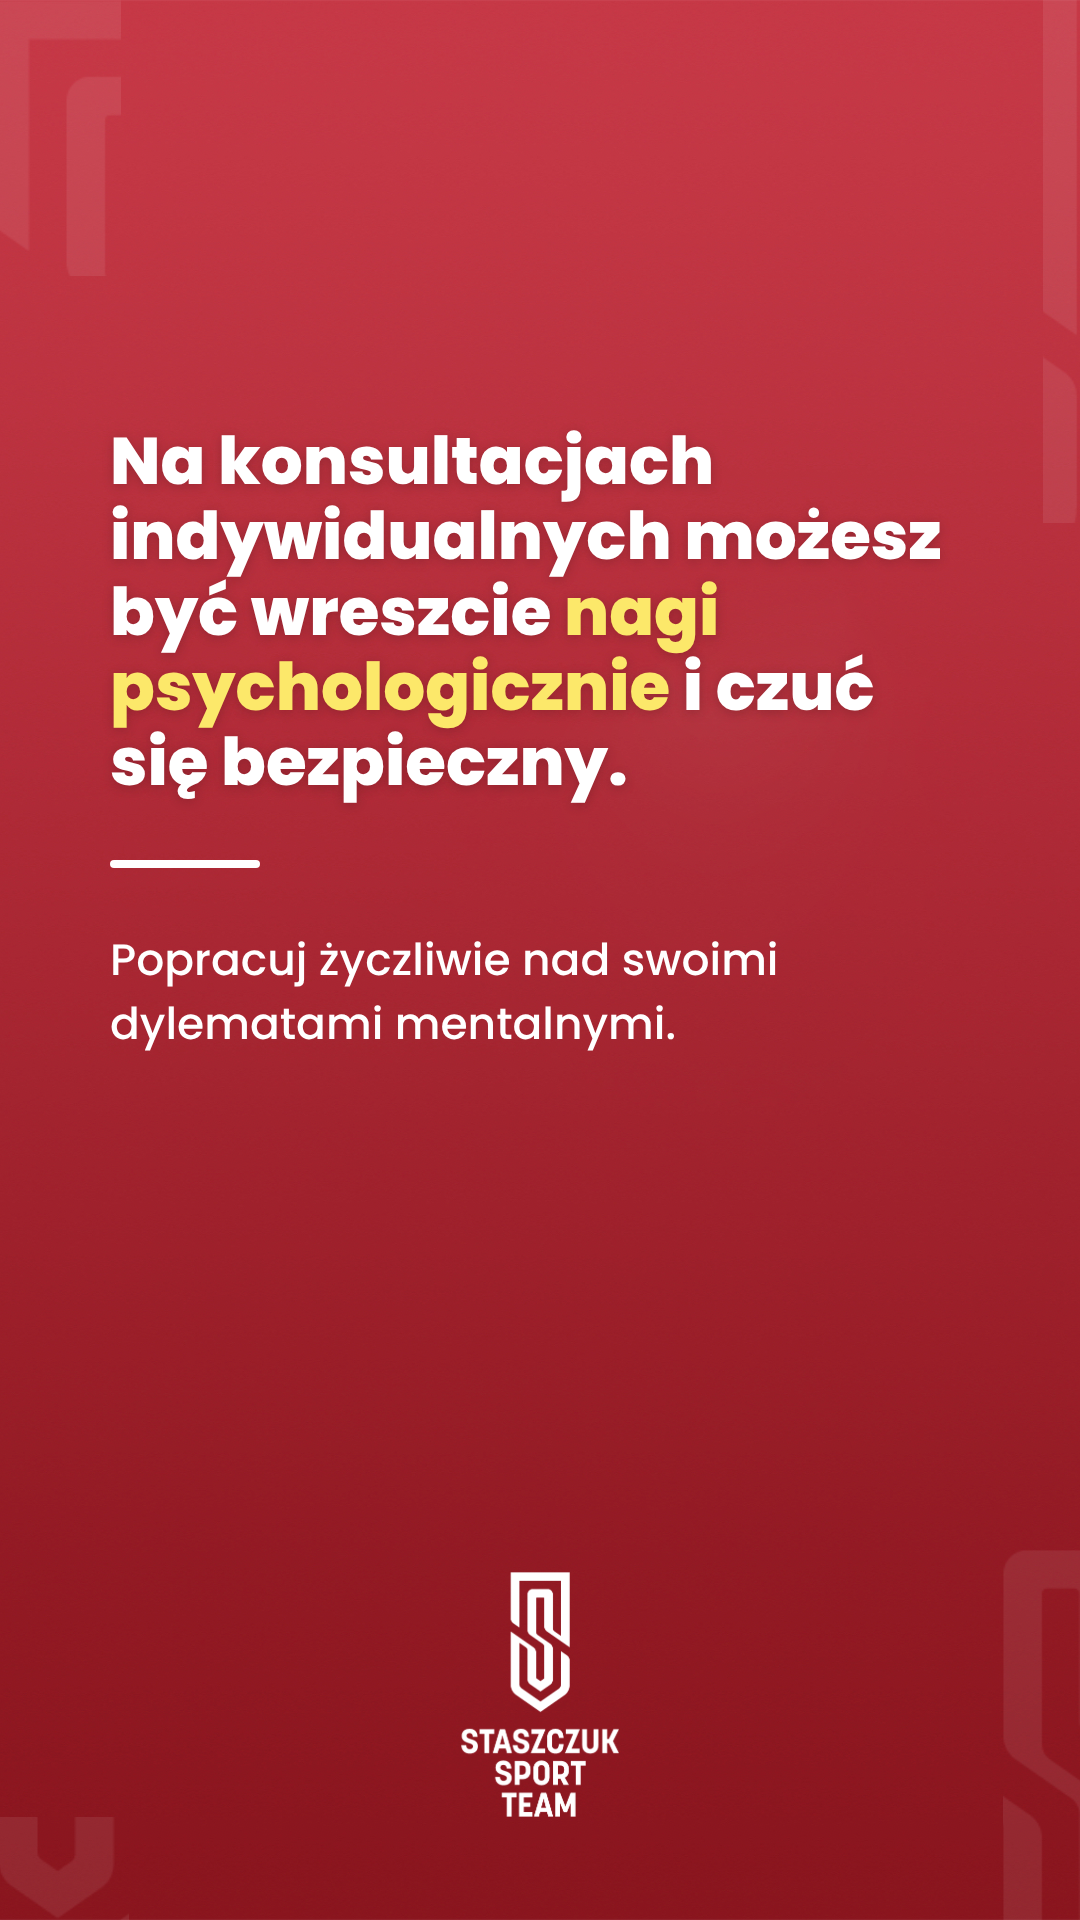
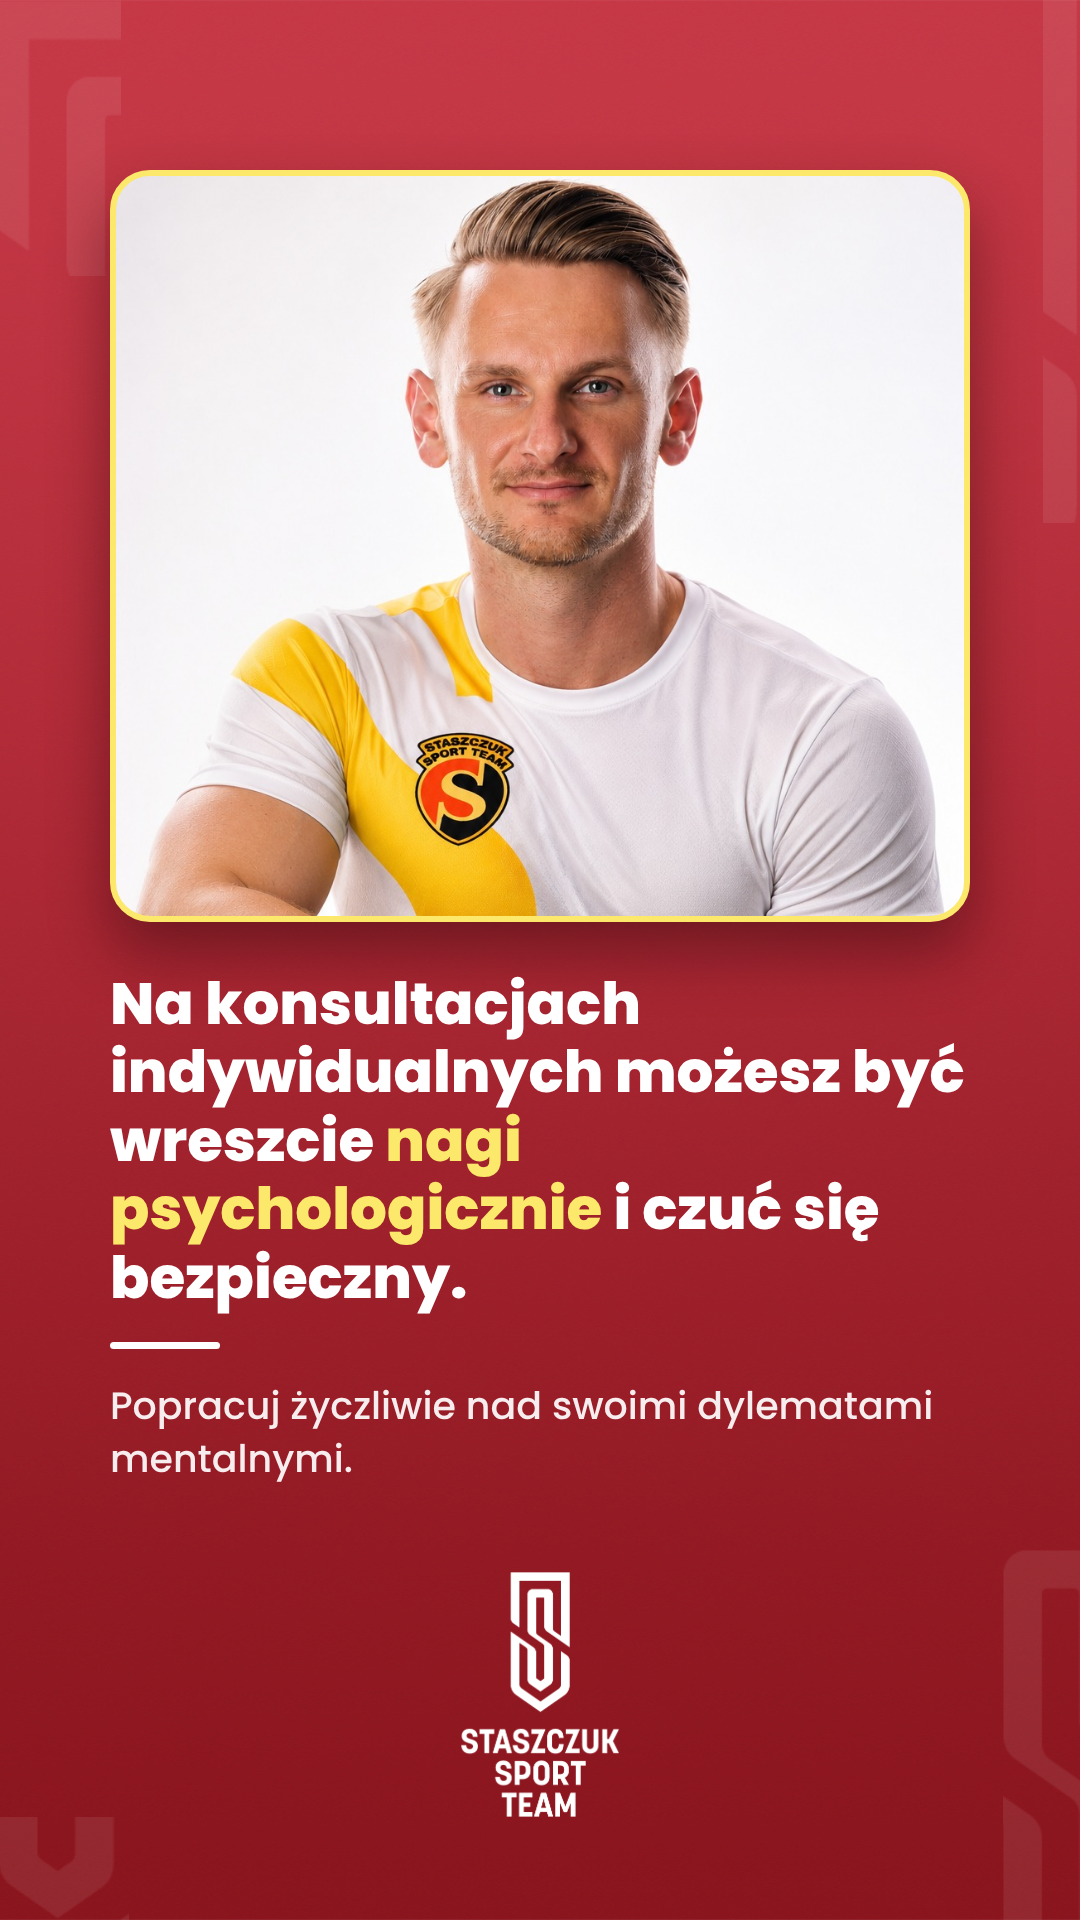
Relacja nagi psychologicznie: ze zdjęciem
Claude-Session: https://claude.ai/code/session_01A5PTvWpyS7iEo6fG2kmJPS

diff --git a/tools/relacja-sst-foto.js b/tools/relacja-sst-foto.js
@@ -1,0 +1,16 @@
+// Relacja SST (czerwone tło Staszczuk Sport Team) ze zdjęciem Andrzeja u góry.
+// node relacja-sst-foto.js tlo.png foto.jpg 'tytuł z *wyróżnieniem*' 'treść' out.png
+const path=require('path');const {render}=require('./kit');
+const [tlo,foto,t,b,out]=process.argv.slice(2);
+const F=p=>'file://'+path.join(__dirname,'node_modules/@fontsource',p);
+const css=['500','700','800'].map(w=>`@font-face{font-family:Pop;font-weight:${w};src:url(${F(`poppins/files/poppins-latin-ext-${w}-normal.woff2`)});unicode-range:U+0100-024F}@font-face{font-family:Pop;font-weight:${w};src:url(${F(`poppins/files/poppins-latin-${w}-normal.woff2`)})}`).join('');
+const e=s=>s.replace(/&/g,'&amp;').replace(/</g,'&lt;').replace(/\*(.+?)\*/g,'<span style="color:#FCE86A">$1</span>');
+const abs=p=>'file://'+path.resolve(p);
+const html=`<!doctype html><html><head><meta charset=utf-8><style>${css}body{margin:0;width:1080px;height:1920px;overflow:hidden;font-family:Pop;color:#fff;background:url('${abs(tlo)}') center/cover}</style></head><body>
+<div style="position:absolute;left:110px;right:110px;top:170px;height:740px;border-radius:40px;background:url('${abs(foto)}') center 8%/cover;box-shadow:0 30px 60px rgba(40,5,8,.45);border:6px solid #FCE86A"></div>
+<div style="position:absolute;left:110px;right:110px;top:970px">
+<div style="font-weight:800;font-size:58px;line-height:1.18">${e(t)}</div>
+<div style="margin:30px 0;width:110px;height:7px;background:#fff;border-radius:4px"></div>
+<div style="font-weight:500;font-size:38px;line-height:1.4;color:rgba(255,255,255,.92)">${e(b)}</div></div>
+</body></html>`;
+render(html,out,1080,1920).then(()=>console.log('ok',out));
